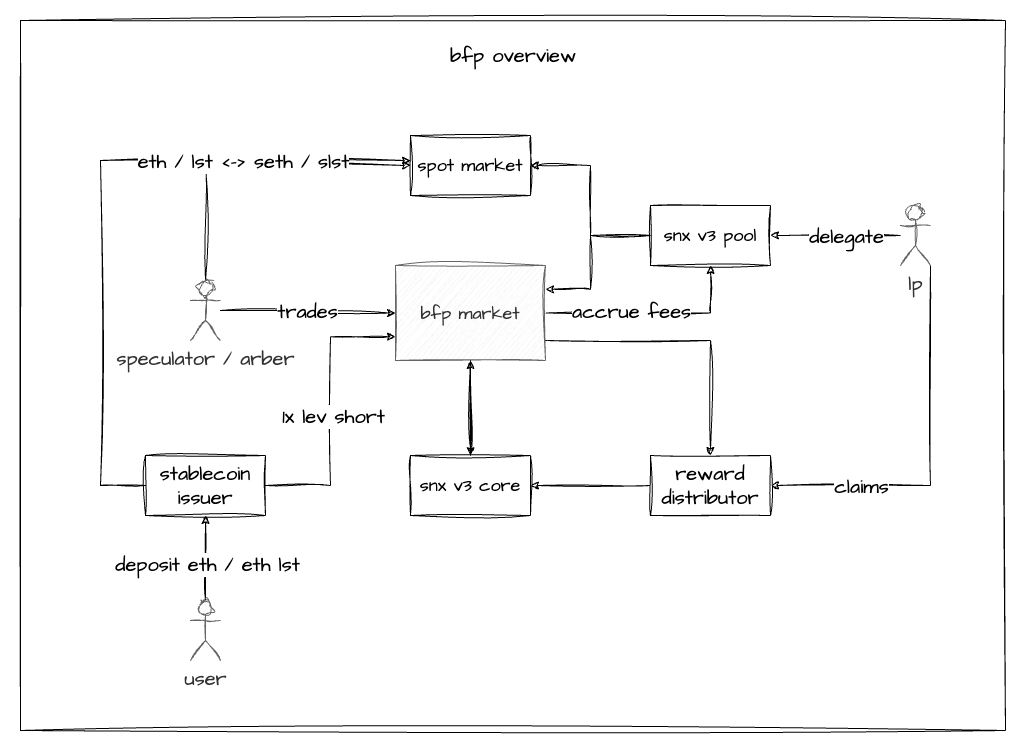
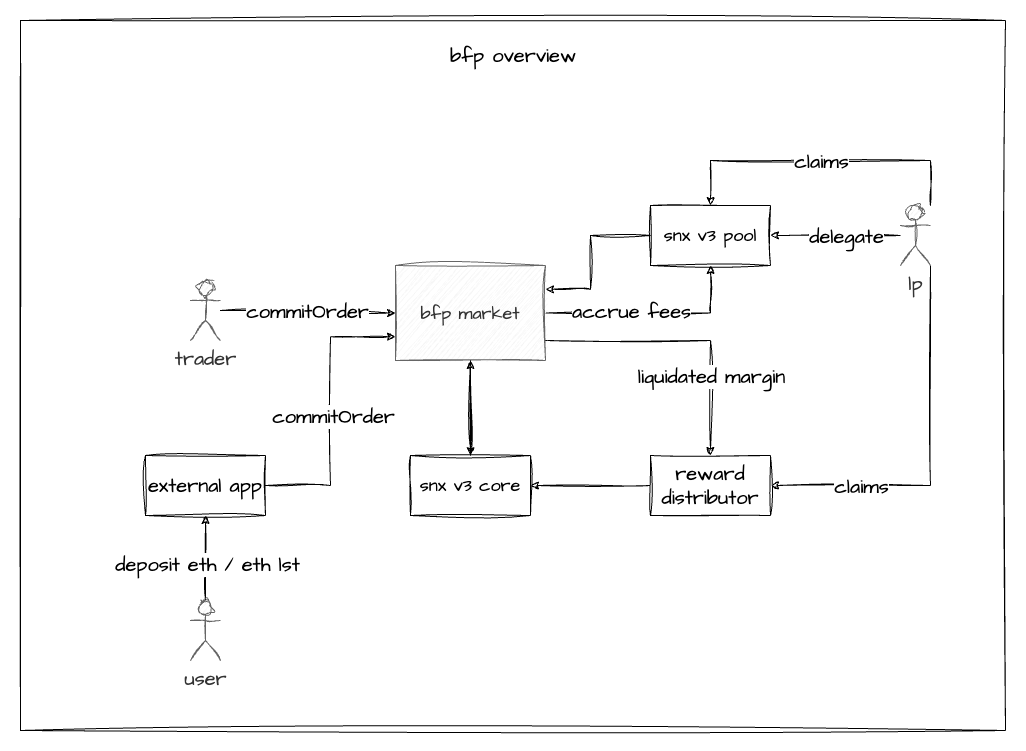
docs: README description and updated overview image

diff --git a/markets/bfp-market/README.md b/markets/bfp-market/README.md
@@ -4,9 +4,9 @@
 
 The _big ~~fucking~~ freaking perp market_ (or just BFP-Market) is a perpetual swap market, leveraging the capabilities of Synthetix v3 as its underlying infrastructure. bfp-market inherits core features from [v2x](https://github.com/Synthetixio/synthetix/tree/develop/contracts), such as dynamic funding rates, PD (Premium/Discount) adjusted market prices, and asynchronous hybrid oracle-based order executions through [Pyth](https://pyth.network/).
 
-In addition to these features, it also introduces various enhancements, including multi-collateral support, improved dynamic keeper fees, user-adjustable keeper fees on order commitments, improved liquidations, a host of quality-of-life improvements, a strong emphasis on gas optimization _(soon)_, and obviously built on [Synthetix v3](https://github.com/Synthetixio/synthetix-v3).
+In addition to these features, it also introduces various enhancements, including native multi-collateral support, improved dynamic keeper fees, user-adjustable keeper fees on order commitments, settlement hooks, account splitting/merging, improved liquidations, a host of quality-of-life improvements, a strong emphasis on gas optimization, and obviously built on [Synthetix v3](https://github.com/Synthetixio/synthetix-v3).
 
-The primary use case of bfp-market is to create a hyper-stable perp derivative utilizing wstETH as collateral, allowing users to open a 1x wstETH short with minimal negative funding, completely on-chain.
+bfp-market's primary use case is to allow stable coin issuers, vaults, and other defi protocols to create a delta neutral perp, utilizing ETH and ETH LSTs as collateral. The end result is a new defi primitive that's yield bearing (through positive funding) and hyper-stable. All of this done completely decentralised and onchain.
 
 <p align="center">
   <img src="./assets/overview.png">
